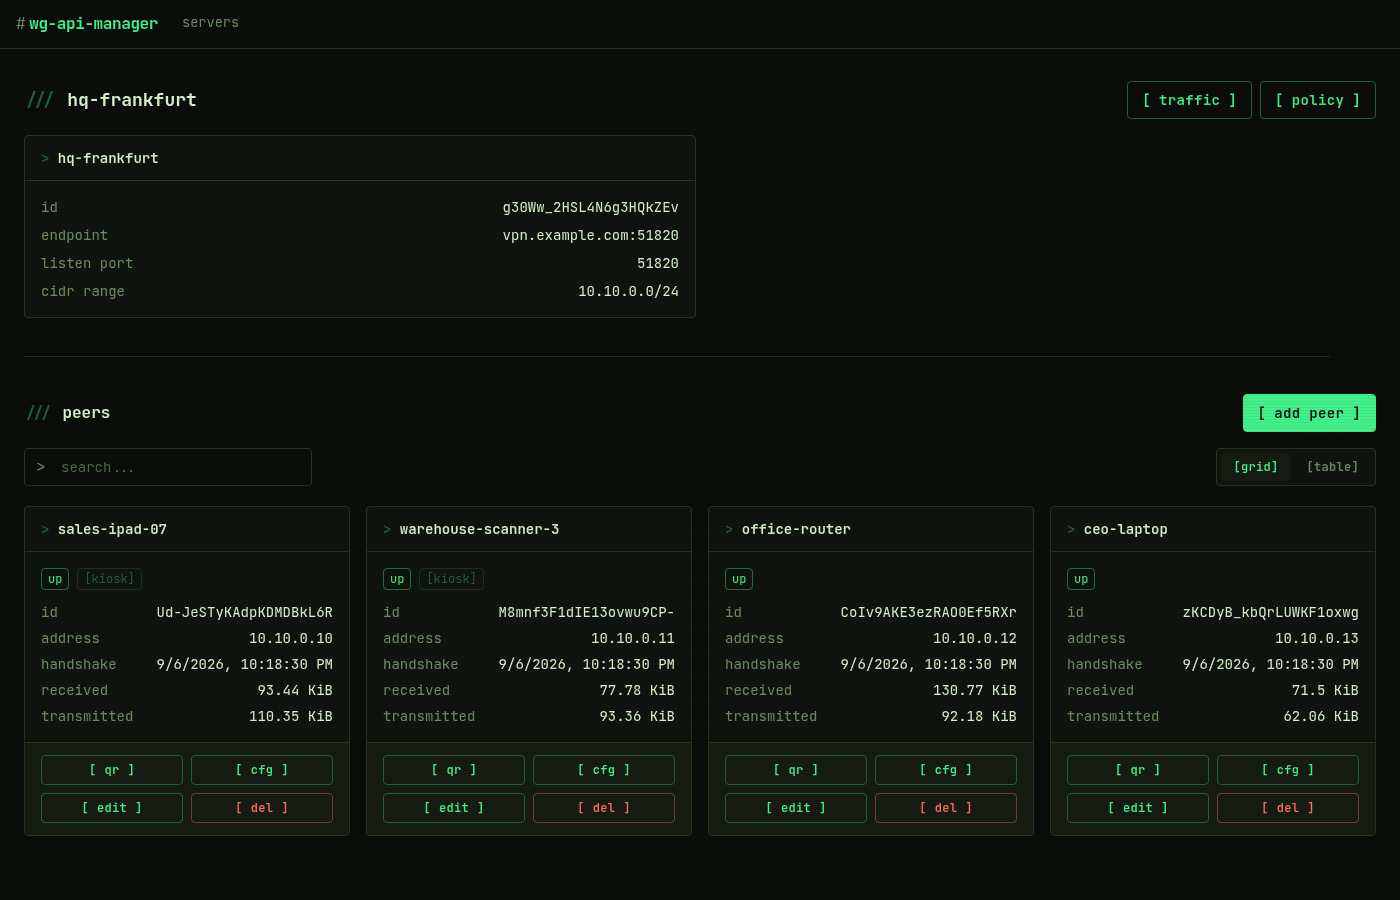
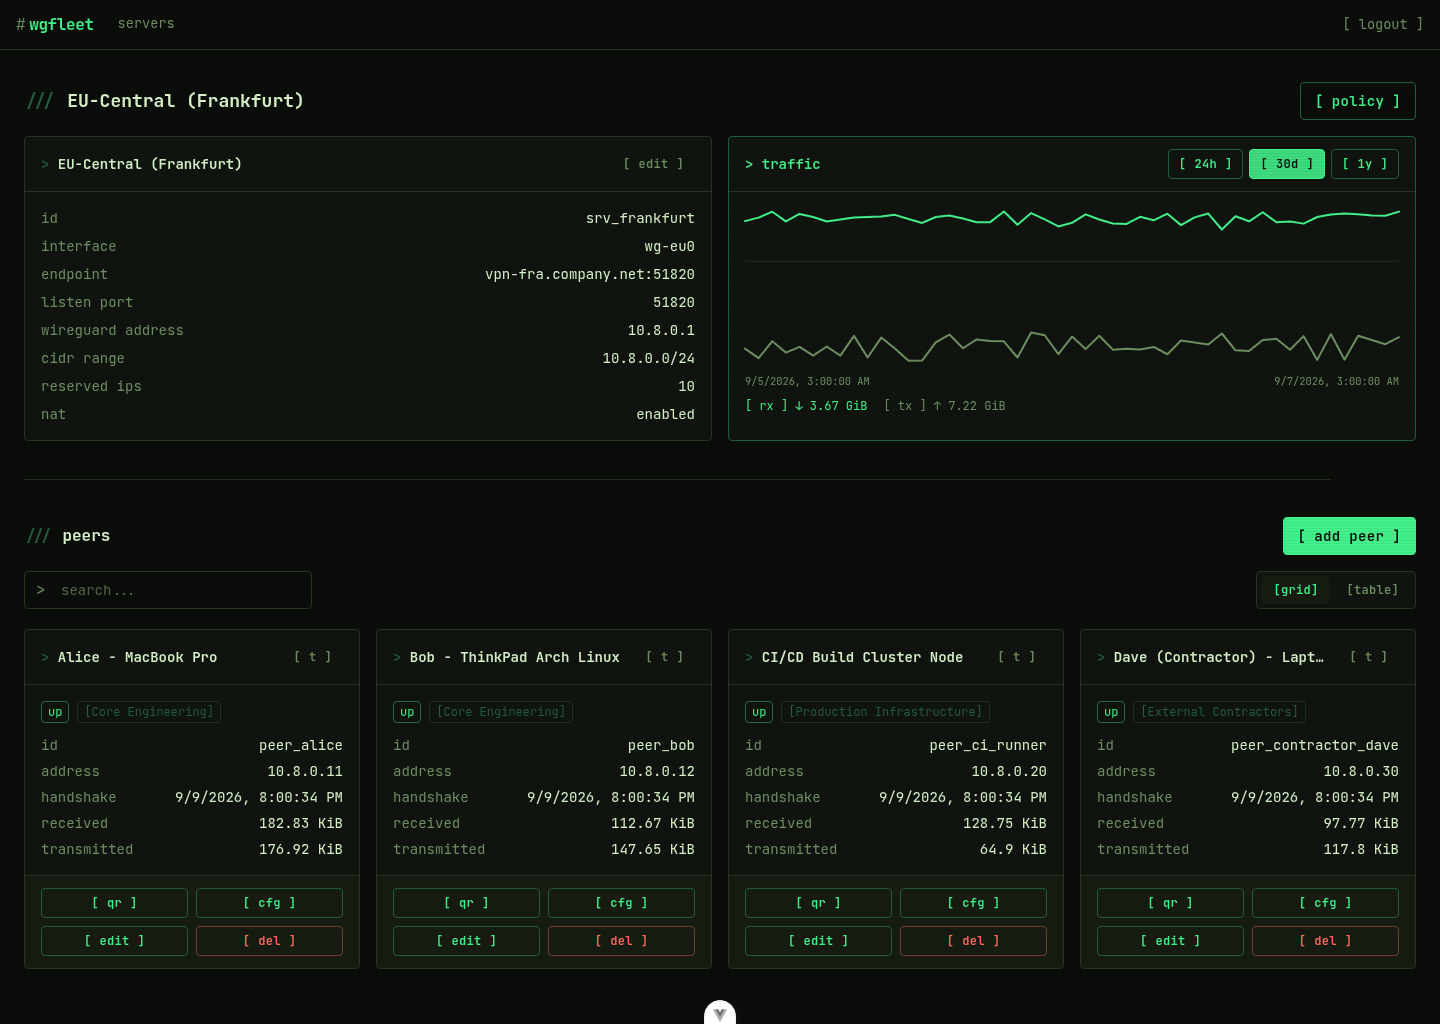
rebrand: wg-api-manager -> wgfleet
Rename the project to wgfleet and rewrite the README to lead with the
tag-based nftables access policy as the actual differentiator, rather
than the (incorrect) multi-server-uniqueness claim. Renamed the GitHub
repo, updated repo description/topics, and renamed the internal
workspace packages (wg-manager -> wgfleet, @wg-manager/server ->
@wgfleet/server) to match. New docs/screenshot.png showing the
always-on traffic chart.

diff --git a/packages/app/src/views/LoginView.vue b/packages/app/src/views/LoginView.vue
@@ -2,7 +2,7 @@
 	<div class="flex items-center justify-center pt-16">
 		<div class="w-full max-w-sm border border-border rounded-sm bg-surface2 p-6">
 			<div class="text-xs uppercase tracking-wide text-muted mb-4">authenticate</div>
-			<h1 class="text-lg font-bold text-accent mb-6">wg-api-manager</h1>
+			<h1 class="text-lg font-bold text-accent mb-6">wgfleet</h1>
 			<form @submit.prevent="handleLogin" class="flex flex-col gap-4">
 				<div>
 					<label for="token" class="block text-sm text-muted mb-1.5"><span class="text-accent-dim">&gt;</span> administration token</label>

diff --git a/packages/app/src/App.vue b/packages/app/src/App.vue
@@ -2,7 +2,7 @@
 	<div class="crt-scanlines min-h-screen bg-bg text-text">
 		<nav class="flex items-center gap-6 px-4 py-3 border-b border-border">
 			<RouterLink to="/servers" class="font-bold text-accent tracking-tight flex items-center gap-1">
-				<span class="text-muted font-normal">#</span>wg-api-manager
+				<span class="text-muted font-normal">#</span>wgfleet
 			</RouterLink>
 			<RouterLink to="/servers" class="nav-link">servers</RouterLink>
 			<div v-if="authStore.authTokenValidated" class="ml-auto">

diff --git a/packages/app/index.html b/packages/app/index.html
@@ -10,7 +10,7 @@
 			href="https://fonts.googleapis.com/css2?family=JetBrains+Mono:ital,wght@0,400;0,500;0,600;0,700;1,400&display=swap"
 			rel="stylesheet"
 		/>
-		<title>wg-api-manager</title>
+		<title>wgfleet</title>
 	</head>
 	<body>
 		<div id="app"></div>

diff --git a/packages/server/src/index.ts b/packages/server/src/index.ts
@@ -20,7 +20,7 @@ const _app = new Elysia()
 		swagger({
 			documentation: {
 				info: {
-					title: 'wg-api-manager',
+					title: 'wgfleet',
 					version: '1.0.0',
 				},
 				components: {

diff --git a/README.md b/README.md
@@ -1,62 +1,76 @@
-# wg-api-manager
+# wgfleet
 
-wg-api-manager manages WireGuard VPN deployments across multiple servers from a single API, built to
-automate a large-scale VPN for thin clients across multiple locations. Multi-server support is the point:
-as far as I know no other project handles more than one WireGuard server per install. It's api-first,
-with a web ui on top for managing configurations manually. I run it in production. It's opinionated and
-documentation is thin in places - feedback and pull requests welcome.
+**Self-hosted WireGuard® manager with real access control.** Run a fleet of WireGuard servers from a
+single API, and control who can reach what with tag-based allow/deny policies that are enforced in
+nftables on the server — not merely suggested by each client's config file.
 
-![wg-api-manager server view](docs/screenshot.png)
+Any stock WireGuard client works. There is no custom agent to install, no control-plane account, and
+nothing phones home.
+
+[![MIT license](https://img.shields.io/badge/license-MIT-blue)](./LICENSE)
+[![Docker image](https://img.shields.io/badge/ghcr.io-mkuhlmann%2Fwgfleet-blue?logo=docker&logoColor=white)](https://github.com/mkuhlmann/wgfleet/pkgs/container/wgfleet)
+
+![wgfleet server view](docs/screenshot.png)
+
+## Why another WireGuard manager
+
+Most self-hosted WireGuard tools are config managers: they hand out keys, addresses and `AllowedIPs`,
+and any peer that reaches the tunnel reaches every other peer. The systems that do give you real
+identity-based access control — Tailscale, NetBird, Firezone — expect their own client on every device.
+
+wgfleet's distinguishing feature is the **policy model in between**: peers carry tags, reachability is
+an ordered allow/deny list evaluated first-match-wins, an individual peer can override its tag's policy,
+and the whole thing compiles to one nftables ruleset applied atomically across every server you manage.
+Clients stay stock WireGuard and get no say in it.
+
+Honest pointers to the neighbours, because they may fit you better:
+
+- [**wg-easy**](https://github.com/wg-easy/wg-easy) — by far the simplest way to get one WireGuard
+  interface and a handful of peers running. Single interface, no policy layer.
+- [**wg-portal**](https://github.com/h44z/wg-portal) — multiple interfaces, LDAP-backed user management
+  and a REST API. Reach for it if user management and self-service are what you need; it has no
+  peer-to-peer policy layer.
+- [**wireguard_webadmin**](https://github.com/eduardogsilva/wireguard_webadmin) — multiple instances,
+  per-instance iptables rules, DNS blacklists, traffic graphs. The closest overlap; its firewall is
+  configured per instance rather than as a tag-based policy across a fleet.
+- [**Firezone**](https://github.com/firezone/firezone) / [**NetBird**](https://github.com/netbirdio/netbird)
+  — full zero-trust platforms with SSO, MFA and NAT traversal, if you can deploy their client
+  everywhere.
+
+wgfleet was built to automate a large-scale VPN for thin clients across multiple locations, and I run it
+in production. It is opinionated, and documentation is thin in places — feedback and pull requests
+welcome.
 
 ## Features
 
-- Multiple WireGuard servers and endpoints in one install, each with its own subnet
-- No config files - everything is managed through the api or the ui
-- Automatic IP allocation from each server's CIDR range
-- Api-first, with a web ui on top for day-to-day management
-- Client config generation, including QR codes for mobile clients
-- Restricted clients: tag peers and write an ordered allow/deny policy (grants) controlling what each tag - or an
-  individual peer - can reach, enforced server-side with nftables (see [Restricted Clients](#restricted-clients) below)
-- Per-tag internet egress (NAT) through the VPN
-- Bandwidth graphs and lifetime traffic totals, per server and per peer
-- Separate administration, server and peer tokens
+- **Access policy that actually holds.** Tag your peers and write an ordered allow/deny list; a
+  generated `nftables` ruleset enforces it. See [Access policy](#access-policy).
+- **Many servers, one install.** Each WireGuard interface gets its own subnet, endpoint, listen port
+  and policy. Peers are allocated addresses automatically from their server's CIDR range.
+- **API-first.** Every screen in the UI is just a call to the same REST API, with an OpenAPI/Swagger
+  document at `/swagger`. Automating wgfleet is the primary use case, not an afterthought.
+- **No config files to babysit.** Interfaces, keys and peers live in SQLite and are applied to the
+  running system; nothing is hand-edited on disk.
+- **Client configs and QR codes**, so mobile clients can be enrolled by scanning.
+- **Traffic graphs and lifetime totals**, per server and per peer, rolled up at 1-minute (24h),
+  1-hour (30d) and 1-day (400d) resolution.
+- **Per-server internet egress (NAT)**, off by default, and never implicitly granted — a peer needs an
+  explicit `internet` grant even once NAT is on.
+- **Scoped tokens.** Separate admin, per-server and per-peer bearer tokens.
 
-## Planned Features
+Planned: a desktop client, and possibly SSO (OpenID Connect).
 
-- Desktop client
-- Possibly SSO (OpenID Connect)
+## Quick start
 
-## Installation
+wgfleet ships as a single container. It needs `NET_ADMIN` and `SYS_MODULE` for WireGuard itself, two
+sysctls, and a volume for its SQLite database (`/app/data`).
 
-### 1. Generate Administration Token
-
-Generate a unique and cryptographically secure administration token.
-
-```bash
-openssl rand -base64 32
-```
-
-> ℹ if no token is provided (or is too short), a random token will be generated on startup and printed to the console.
-
-### 2. Run wg-api-manager
-
-wg-api-manager stores a sqlite database in the `/app/data` directory. Make sure to mount a volume to persist the database.
-
-For the WireGuard VPN to work, the container needs the `NET_ADMIN` and `SYS_MODULE` capabilities. Additionally, the following sysctl settings are required:
-
-```bash
-sysctl 'net.ipv4.conf.all.src_valid_mark=1'
-sysctl 'net.ipv4.ip_forward=1'
-```
-
-For production use, it is recommended to use a reverse proxy like Traefik to handle SSL termination.
-
-#### Via docker run
+### Docker run
 
 ```bash
 docker run -d \
-  --name wg-api-manager \
-  --env ADMIN_TOKEN=(openssl rand -base64 32) \
+  --name wgfleet \
+  --env ADMIN_TOKEN="$(openssl rand -base64 32)" \
   --volume ./wg-data:/app/data \
   --publish 51820:51820/udp \
   --publish 3000:3000/tcp \
@@ -65,48 +79,118 @@ docker run -d \
   --sysctl 'net.ipv4.conf.all.src_valid_mark=1' \
   --sysctl 'net.ipv4.ip_forward=1' \
   --restart unless-stopped \
-  ghcr.io/mkuhlmann/wg-api-manager:latest
+  ghcr.io/mkuhlmann/wgfleet:latest
 ```
 
-#### Via docker-compose
-
-Download the `docker-compose.yml` file from the repository and adjust the environment variables as needed.
+### Docker Compose
 
 ```bash
-wget https://raw.githubusercontent.com/mkuhlmann/wg-api-manager/main/docker-compose.yml
+wget https://raw.githubusercontent.com/mkuhlmann/wgfleet/main/docker-compose.yml
+# edit ADMIN_TOKEN, then:
+docker compose up -d
 ```
+
+Then open <http://localhost:3000> and log in with your `ADMIN_TOKEN`.
+
+> ℹ If `ADMIN_TOKEN` is unset or shorter than 16 characters, a random one is generated on startup and
+> printed to the log. Generate a durable one with `openssl rand -base64 32`.
+
+For production, put a reverse proxy (Traefik, Caddy, nginx) in front for TLS termination. Publish one
+UDP port per WireGuard server you intend to run.
+
+### Configuration
+
+| Variable                    | Default              | Purpose                                                              |
+| --------------------------- | -------------------- | -------------------------------------------------------------------- |
+| `ADMIN_TOKEN`               | random at boot       | God-mode bearer token; also the UI login.                            |
+| `PORT`                      | `3000`               | HTTP port for the API and UI.                                        |
+| `DATABASE_PATH`             | `../../data/sqlite.db` | SQLite file. Migrations run automatically on boot.                  |
+| `WG_TRAFFIC_STATS_ENABLED`  | `true`               | Set `false` to stop collecting traffic samples and rollups.          |
+| `WG_DEV_SHIM`               | unset                | `true` runs against in-memory fakes instead of real `wg`/`nft`/`ip`. |
+
+## Access policy
+
+By default a peer with no tags is **unrestricted** — every peer on a server can reach every other peer,
+exactly like a hand-rolled WireGuard setup. Policy is opt-in, per server, and modelled on
+Tailscale-style grants:
+
+- A peer carries any number of **tags** (a many-to-many label, not a single group).
+- Reachability is an explicit, **ordered list of grants** — `allow`/`deny`, matched top to bottom,
+  first match wins.
+- A grant's **source** is a tag or an individual peer. Putting a peer-scoped grant *above* a tag-scoped
+  one overrides policy for one specific client without inventing a tag for it.
+- A grant's **destination** is another tag, another peer, an arbitrary **CIDR** (a LAN behind a
+  site-to-site gateway), the **server** itself (its tunnel address — DNS, the management API), the
+  **internet**, or **any**. Grants can additionally match a protocol (`tcp`/`udp`/`icmp`) and a port
+  list or range.
+- A peer becomes **governed** the moment it carries a tag *or* is named as a grant's source: from then
+  on its traffic is denied unless a grant allows it. A tag cannot even reach itself without a grant
+  naming it as both source and destination.
+- The **internet** destination additionally requires `enableNat` on that server, since egress is
+  masqueraded. Turning NAT on grants nobody internet access by itself.
+
+Because this compiles to an nftables ruleset applied atomically across all servers, a client cannot
+opt out of it by editing its own config — `AllowedIPs` in a client config is a routing hint, and
+wgfleet treats it as one.
+
+Manage tags and grants from the **policy** view on a server's page (which includes a JSON view of the
+whole policy document for review, export and import), or via the API.
+
+## API
+
+The API lives under `/api/v1`, authenticated with a bearer token, and is documented interactively at
+`/swagger`. Tokens come in three scopes: the admin token, a per-server token (authorizes everything
+under that server, including all of its peers, tags and grants), and a per-peer token.
 
 ```bash
-docker-compose up -d
+curl -H "Authorization: Bearer $ADMIN_TOKEN" http://localhost:3000/api/v1/wg/servers
 ```
 
-## Restricted Clients
+| Endpoint                                          | Methods                  |
+| ------------------------------------------------- | ------------------------ |
+| `/wg/servers`                                     | `GET` `POST`             |
+| `/wg/servers/:id`                                 | `GET` `PATCH`            |
+| `/wg/servers/:id/config`                          | `GET`                    |
+| `/wg/servers/:id/peers`                           | `GET` `POST`             |
+| `/wg/servers/:id/peers/:peerId`                   | `PATCH` `DELETE`         |
+| `/wg/servers/:id/peers/:peerId/config`            | `GET`                    |
+| `/wg/peers/:id/config`                            | `GET` (peer-scoped token)|
+| `/wg/servers/:id/tags`                            | `GET` `POST`             |
+| `/wg/servers/:id/tags/:tagId`                     | `PATCH` `DELETE`         |
+| `/wg/servers/:id/grants`                          | `GET` `PUT` (replaces all) |
+| `/wg/servers/:id/policy`                          | `GET` `PUT` (tags + grants + assignments as one document) |
+| `/wg/servers/:id/traffic`                         | `GET`                    |
+| `/wg/servers/:id/traffic/reset`                   | `POST`                   |
+| `/wg/servers/:id/peers/:peerId/traffic`           | `GET`                    |
+| `/wg/servers/:id/peers/:peerId/traffic/reset`     | `POST`                   |
+| `/auth/login`, `/auth/logout`, `/auth/verify`     | UI session endpoints     |
 
-By default every peer on a server can reach every other peer - this is unchanged, and any peer you never tag
-keeps behaving exactly this way.
+## Development
 
-Access control is a Tailscale-grants-style model, scoped per server:
+A Bun workspace monorepo: `packages/server` (Elysia + Drizzle/SQLite) and `packages/app` (Vue 3 + Vite
++ Tailwind). The frontend consumes the server's types directly through Eden Treaty, so there is no
+generated client and no codegen step — changing a route changes the frontend's types immediately.
 
-- A peer can carry any number of **tags** (a many-to-many label, not a single group).
-- Reachability is an explicit, **ordered list of grants** - `allow`/`deny` rules matched top to bottom, first
-  match wins. A grant's source is a **tag** or an individual **peer**; a peer-scoped grant placed above a
-  tag-scoped one lets you override policy for one specific client without inventing a whole new tag for it.
-- A grant's destination is another **tag**, another **peer**, an arbitrary **subnet/CIDR** (useful for a
-  site-to-site LAN behind the gateway), the **server** itself (its own tunnel address - dns, the management api),
-  the **internet**, or **any**. Grants can optionally match a protocol (`tcp`/`udp`/`icmp`) and port list/ranges.
-- The moment a peer carries a tag, or is named directly as a grant's source, it becomes **governed**: traffic
-  from it is denied by default unless some grant allows it. Reaching itself (tag -> same tag) needs its own
-  explicit grant, same as any other destination.
-- The **internet** destination also requires `enableNat` to be turned on for that server, since this masquerades
-  traffic on the way out. Off by default; turning it on for a server does not by itself grant internet access to
-  anyone - an explicit "internet" grant is still required.
+```bash
+bun install
+bun run dev        # server on :3000, vite on :5173 with an /api proxy
+```
 
-This is enforced with a generated nftables ruleset on the server, not by what a client's own config says it's
-allowed to do - a client can't bypass it by editing its config. Manage tags and grants from the "policy" button
-on a server's page (including a JSON view of the whole policy document for review/import), or via the
-`/wg/servers/:id/tags`, `/wg/servers/:id/grants` and `/wg/servers/:id/policy` api endpoints.
+Local development needs neither root nor real WireGuard tooling: capabilities (`crypto`, `network`,
+`firewall`) are probed independently at boot and shimmed in memory when missing. Force it with
+`WG_DEV_SHIM=true`. In production, a missing capability is a fatal error rather than a silent fallback.
 
-## Testing
+```bash
+bun run --cwd packages/server test        # unit + integration tests
+bun run --cwd packages/app type-check
+```
 
-The server package has unit and integration tests (`bun run --cwd packages/server test`). The frontend
-(`packages/app`) has no tests yet.
+The frontend has no tests yet. See [CLAUDE.md](./CLAUDE.md) for the architecture in detail, and
+[DESIGN.md](./DESIGN.md) before touching the UI.
+
+## License
+
+[MIT](./LICENSE)
+
+"WireGuard" is a registered trademark of Jason A. Donenfeld. This project is not affiliated with or
+endorsed by the WireGuard project.

diff --git a/CLAUDE.md b/CLAUDE.md
@@ -47,7 +47,7 @@ Formatting: Prettier, tabs, single quotes, 250-char print width (`.prettierrc`).
 ### Two packages, one type contract, no codegen
 
 The frontend never calls a generated client or a hand-maintained schema package. `packages/app` depends on
-`@wg-manager/server: workspace:*` and both tsconfigs alias `@server/*` -> `packages/server/src/*`, so
+`@wgfleet/server: workspace:*` and both tsconfigs alias `@server/*` -> `packages/server/src/*`, so
 `packages/app/src/queries/edenClient.ts` does `treaty<App>(...)` (Eden Treaty) against
 `export type App = typeof _app` from `packages/server/src/index.ts` directly. This means:
 - **Adding/changing a server route or its TypeBox (`t.Object(...)`) schema changes the frontend's types
@@ -153,7 +153,7 @@ in the modal components that use them), a single Pinia store for the in-memory (
 
 ### Issue tracker
 
-Issues live in GitHub Issues (`mkuhlmann/wg-api-manager`), via the `gh` CLI. See `docs/agents/issue-tracker.md`.
+Issues live in GitHub Issues (`mkuhlmann/wgfleet`), via the `gh` CLI. See `docs/agents/issue-tracker.md`.
 
 ### Triage labels
 

diff --git a/DESIGN.md b/DESIGN.md
@@ -1,6 +1,6 @@
 # UI Design System — "Signal"
 
-The wg-api-manager UI is built as an **operator terminal console**: a tool for
+The wgfleet UI is built as an **operator terminal console**: a tool for
 people who manage WireGuard fleets from a shell, not a generic SaaS admin
 panel. Every screen borrows real conventions from terminal emulators — a
 window chrome bar, box-drawing rules, bracket-tagged status and actions,
